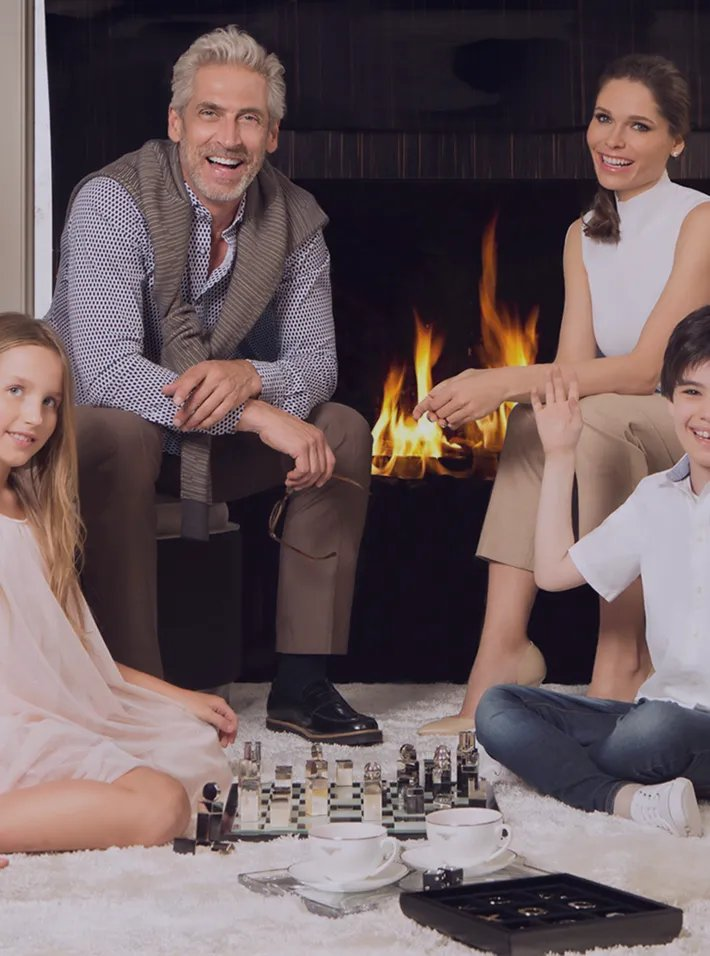
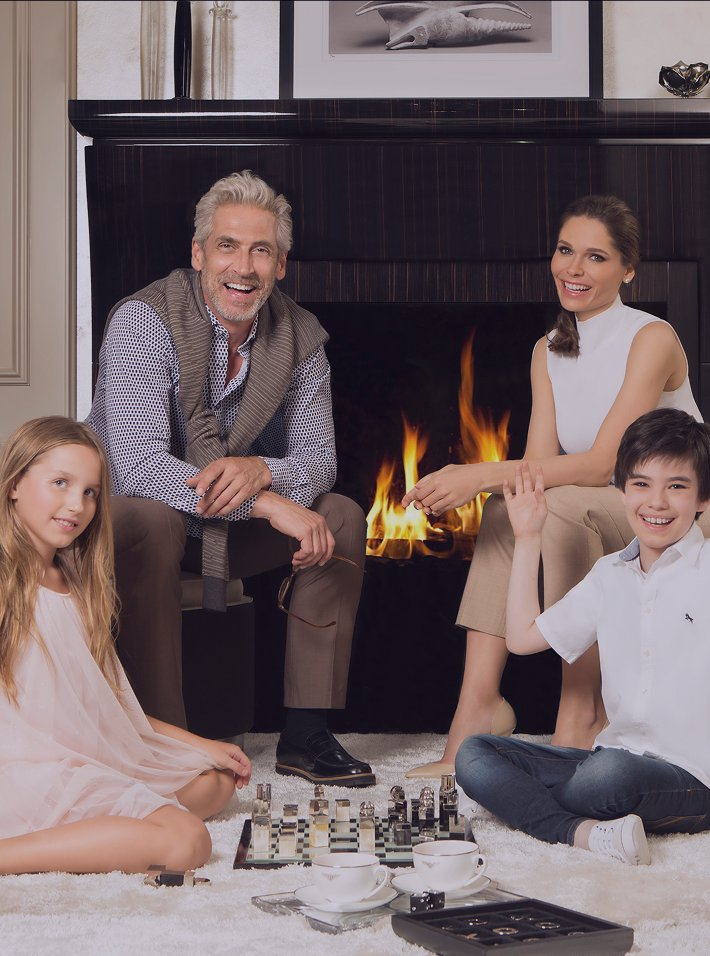
fix: replace s6 photo with new image, bump version to v=3

diff --git a/index.html b/index.html
@@ -140,8 +140,8 @@
                   <div class="card__wrap">
                     <div class="card__img">
                       <picture>
-                        <source srcset="assets/images/img/s6.webp?v=2" type="image/webp">
-                        <img src="assets/images/img/s6.jpg?v=2" alt="Family-офис — управление активами" title="Family-офис — управление активами">
+                        <source srcset="assets/images/img/s6.webp?v=3" type="image/webp">
+                        <img src="assets/images/img/s6.jpg?v=3" alt="Family-офис — управление активами" title="Family-офис — управление активами">
                       </picture>
                     </div>
                     <h3 class="card__title">Семейный Офис</h3>
@@ -241,8 +241,8 @@
                   <div class="card__wrap">
                     <div class="card__img">
                       <picture>
-                        <source srcset="assets/images/img/s6.webp?v=2" type="image/webp">
-                        <img src="assets/images/img/s6.jpg?v=2" alt="Family-офис — управление активами" title="Family-офис — управление активами">
+                        <source srcset="assets/images/img/s6.webp?v=3" type="image/webp">
+                        <img src="assets/images/img/s6.jpg?v=3" alt="Family-офис — управление активами" title="Family-офис — управление активами">
                       </picture>
                     </div>
                     <h3 class="card__title">Семейный Офис</h3>
